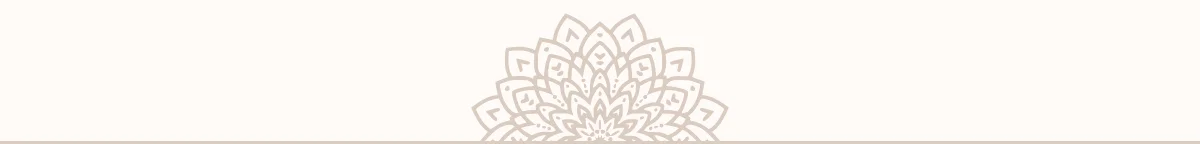
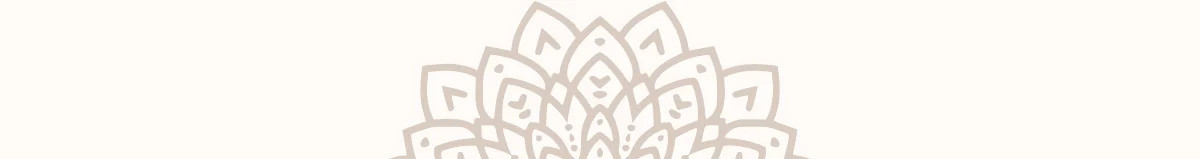
modification variable, footer, page home, header, et création du formulaire. Je vais procéder au mailJS pour le formulaire

Changed region(s): [[0.0, 0.0, 1.0, 1.0]]

diff --git a/src/components/Form.jsx b/src/components/Form.jsx
@@ -1,0 +1,75 @@
+import '../styles/_form.scss';
+import { useState } from 'react';
+
+export default function Form() {
+    const [name, setName] = useState('');
+    const [email, setEmail] = useState('');
+    const [message, setMessage] = useState('');
+    const [feedback, setFeedback] = useState('');
+    const [feedbackType, setFeedbackType] = useState('');
+
+    const handleSubmit = (e) => {
+        e.preventDefault();
+
+        // Vérification de l'email
+        const emailRegex = /^[^\s@]+@[^\s@]+\.[^\s@]+$/;
+        if (!emailRegex.test(email)) {
+            return;
+        }
+
+        setTimeout(() => {
+            if (message) {
+                setFeedback('Votre message a bien été envoyé');
+                setFeedbackType('success');
+                setName('');
+                setEmail('');
+                setMessage('');
+            }
+        }, 1000);
+    };
+
+    return (
+        <div id="contact" className="form">
+            <h2 className="form__title">CONTACT</h2>
+            <form onSubmit={handleSubmit} className="form__container">
+                <label className="form__label">
+                    Nom
+                    <input
+                        type="text"
+                        value={name}
+                        onChange={(e) => setName(e.target.value)}
+                        className="form__input"
+                        required
+                    />
+                </label>
+                <label className="form__label">
+                    Email
+                    <input
+                        type="email"
+                        value={email}
+                        onChange={(e) => setEmail(e.target.value)}
+                        className="form__input"
+                        required
+                    />
+                </label>
+                <label className="form__label">
+                    Message
+                    <textarea
+                        value={message}
+                        onChange={(e) => setMessage(e.target.value)}
+                        className="form__textarea"
+                        required
+                    />
+                </label>
+                <button type="submit" className="form__button">
+                    Envoyer
+                </button>
+                {feedbackType === 'success' && (
+                    <p className="form__feedback form__feedback--success">
+                        {feedback}
+                    </p>
+                )}
+            </form>
+        </div>
+    );
+}

diff --git a/src/components/Footer.jsx b/src/components/Footer.jsx
@@ -1,32 +1,39 @@
 import '../styles/_footer.scss';
+import FooterImg from '../assets/images/footer.webp';
 
 export default function Footer() {
     return (
-        <footer className="footer">
-            <div className="footer__icons">
-                <a href="mailto:s.alagoz@outlook.fr" className="footer__link">
-                    <i className="fa-solid fa-envelope"></i>
-                </a>
-                <a
-                    href="https://www.linkedin.com/in/sebil-alagoz"
-                    target="_blank"
-                    rel="noopener noreferrer"
-                    className="footer__link"
-                >
-                    <i className="fa-brands fa-linkedin-in"></i>
-                </a>
-                <a
-                    href="https://github.com/sebil21?tab=repositories"
-                    target="_blank"
-                    rel="noopener noreferrer"
-                    className="footer__link"
-                >
-                    <i className="fa-brands fa-github"></i>
-                </a>
-            </div>
-            <p className="footer__text">
-                © 2024 Sebil ALAGOZ, Tous droits réservés.
-            </p>
-        </footer>
+        <>
+            <img className="footerImg" src={FooterImg} alt="mandala" />
+            <footer className="footer">
+                <div className="footer__icons">
+                    <a
+                        href="mailto:s.alagoz@outlook.fr"
+                        className="footer__link"
+                    >
+                        <i className="fa-solid fa-envelope"></i>
+                    </a>
+                    <a
+                        href="https://www.linkedin.com/in/sebil-alagoz"
+                        target="_blank"
+                        rel="noopener noreferrer"
+                        className="footer__link"
+                    >
+                        <i className="fa-brands fa-linkedin-in"></i>
+                    </a>
+                    <a
+                        href="https://github.com/sebil21?tab=repositories"
+                        target="_blank"
+                        rel="noopener noreferrer"
+                        className="footer__link"
+                    >
+                        <i className="fa-brands fa-github"></i>
+                    </a>
+                </div>
+                <p className="footer__text">
+                    © 2024 Sebil ALAGOZ, Tous droits réservés.
+                </p>
+            </footer>
+        </>
     );
 }

diff --git a/src/styles/_form.scss b/src/styles/_form.scss
@@ -1,0 +1,84 @@
+@import '_variables.scss';
+
+.form {
+    display: flex;
+    flex-direction: column;
+    flex-wrap: wrap;
+    padding: 60px 20px;
+    align-items: center;
+
+    &__title {
+        @include title;
+        position: relative;
+        z-index: 1;
+        padding-bottom: 40px;
+        text-align: center;
+
+        &::after {
+            content: '';
+            display: block;
+            width: 50%;
+            height: 2px;
+            background-color: $primary-color;
+            position: absolute;
+            left: 50%;
+            transform: translateX(-50%);
+            bottom: 0;
+        }
+    }
+
+    &__container {
+        display: flex;
+        flex-direction: column;
+        margin-top: 30px;
+        width: 100%;
+        max-width: 400px;
+    }
+
+    &__label {
+        @include formLabel;
+        display: flex;
+        flex-direction: column;
+        margin-bottom: 20px;
+    }
+    input,
+    .form__textarea {
+        @include formInputText;
+        margin-bottom: 15px;
+        padding: 10px;
+        border: 1px solid $primary-color;
+        border-radius: 4px;
+
+        &:focus {
+            border-color: $dark-background-color;
+            outline: none;
+        }
+    }
+    &__textarea {
+        resize: vertical;
+        height: 100px;
+    }
+
+    &__button {
+        @include formButton;
+        padding: 8px;
+        width: 40%;
+        border: none;
+        border-radius: 4px;
+        background-color: $primary-color;
+        cursor: pointer;
+        display: flex;
+        justify-content: center;
+
+        &:hover {
+            background-color: darken($primary-color, 5%);
+        }
+    }
+    &__feedback {
+        &--success {
+            color: green;
+            @include formErrorSuccessMsg;
+            margin-top: 20px;
+        }
+    }
+}

diff --git a/src/styles/_variables.scss b/src/styles/_variables.scss
@@ -171,3 +171,27 @@ $dark-background-color: #dbccc1;
     font-weight: 500;
     letter-spacing: 3px;
 }
+
+@mixin formLabel {
+    font-size: 0.8rem;
+    font-weight: 400;
+    letter-spacing: 3px;
+}
+
+@mixin formInputText {
+    font-size: 0.8rem;
+    font-weight: 400;
+}
+
+@mixin formButton {
+    font-size: 1rem;
+    font-weight: 400;
+    letter-spacing: 3px;
+    color: $tertiary-color;
+}
+
+@mixin formErrorSuccessMsg {
+    font-size: 0.75rem;
+    font-weight: 400;
+    letter-spacing: 3px;
+}

diff --git a/src/pages/Home.jsx b/src/pages/Home.jsx
@@ -3,6 +3,7 @@ import AboutInfo from '../data/AboutInfo';
 import Gallery from '../components/Gallery';
 import Skills from '../components/Skills';
 import Resume from '../components/Resume';
+import Form from '../components/Form';
 
 export default function Home() {
     return (
@@ -12,6 +13,7 @@ export default function Home() {
             <Gallery />
             <Skills />
             <Resume />
+            <Form />
         </div>
     );
 }

diff --git a/src/components/Header.jsx b/src/components/Header.jsx
@@ -42,7 +42,7 @@ export default function Header() {
                     </li>
                     <li>
                         <a href="#resume" onClick={handleMenuItemClick}>
-                            CV
+                            PARCOURS
                         </a>
                     </li>
                     <li>

diff --git a/src/styles/_footer.scss b/src/styles/_footer.scss
@@ -1,5 +1,12 @@
 @import '_variables.scss';
 
+.footerImg {
+    width: 100%;
+    height: auto;
+    display: block;
+    max-width: 500px;
+    margin: 0 auto;
+}
 .footer {
     display: flex;
     flex-direction: column;

diff --git a/src/styles/_galleryProjects.scss b/src/styles/_galleryProjects.scss
@@ -19,7 +19,6 @@
         position: relative;
         z-index: 1;
         padding-bottom: 40px;
-        background-color: $dark-background-color;
         text-align: center;
 
         &::after {
